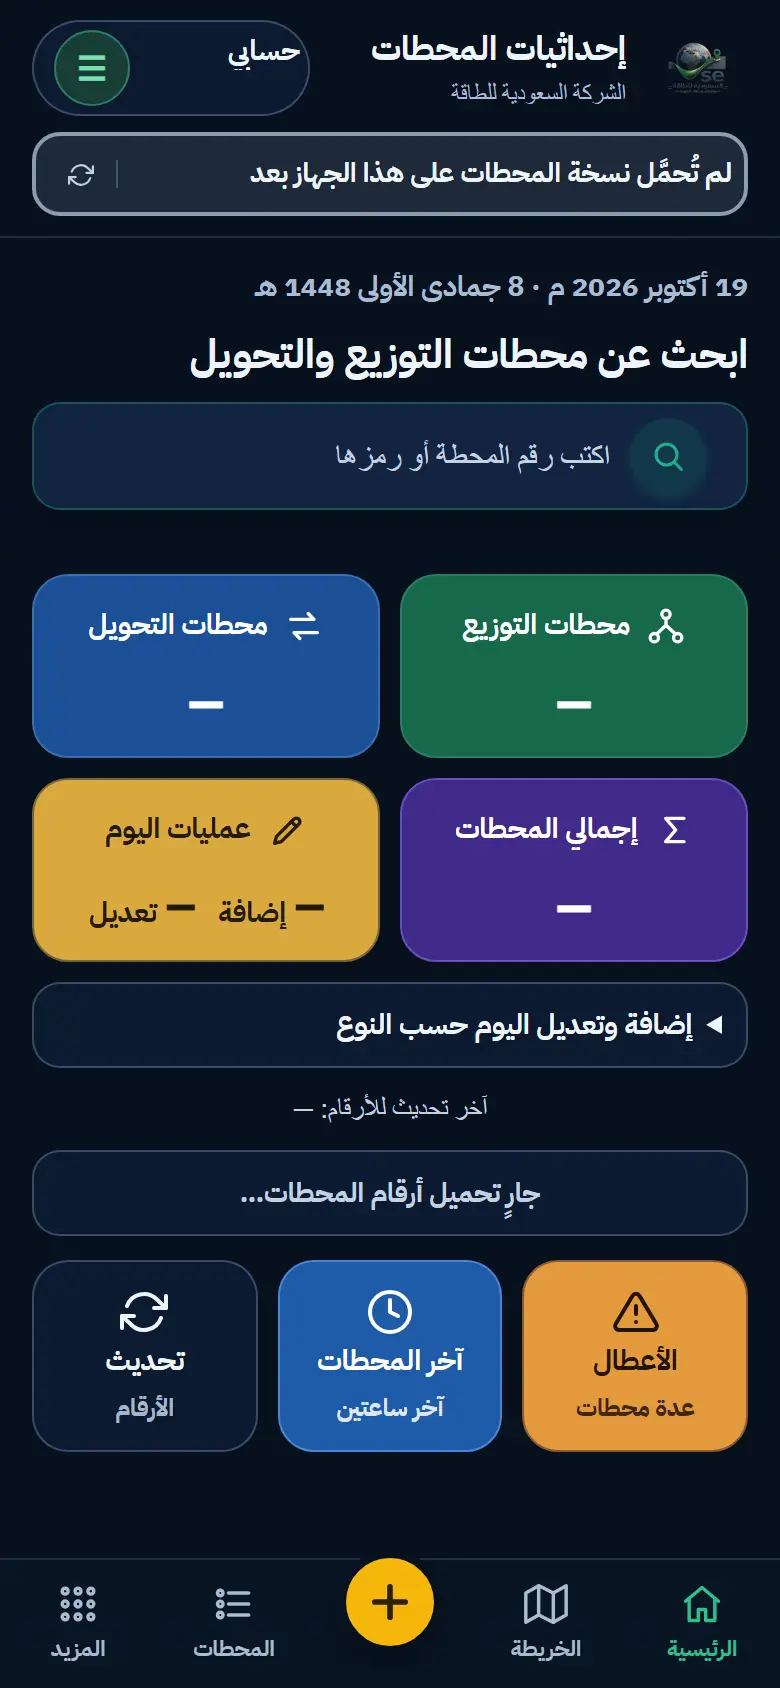
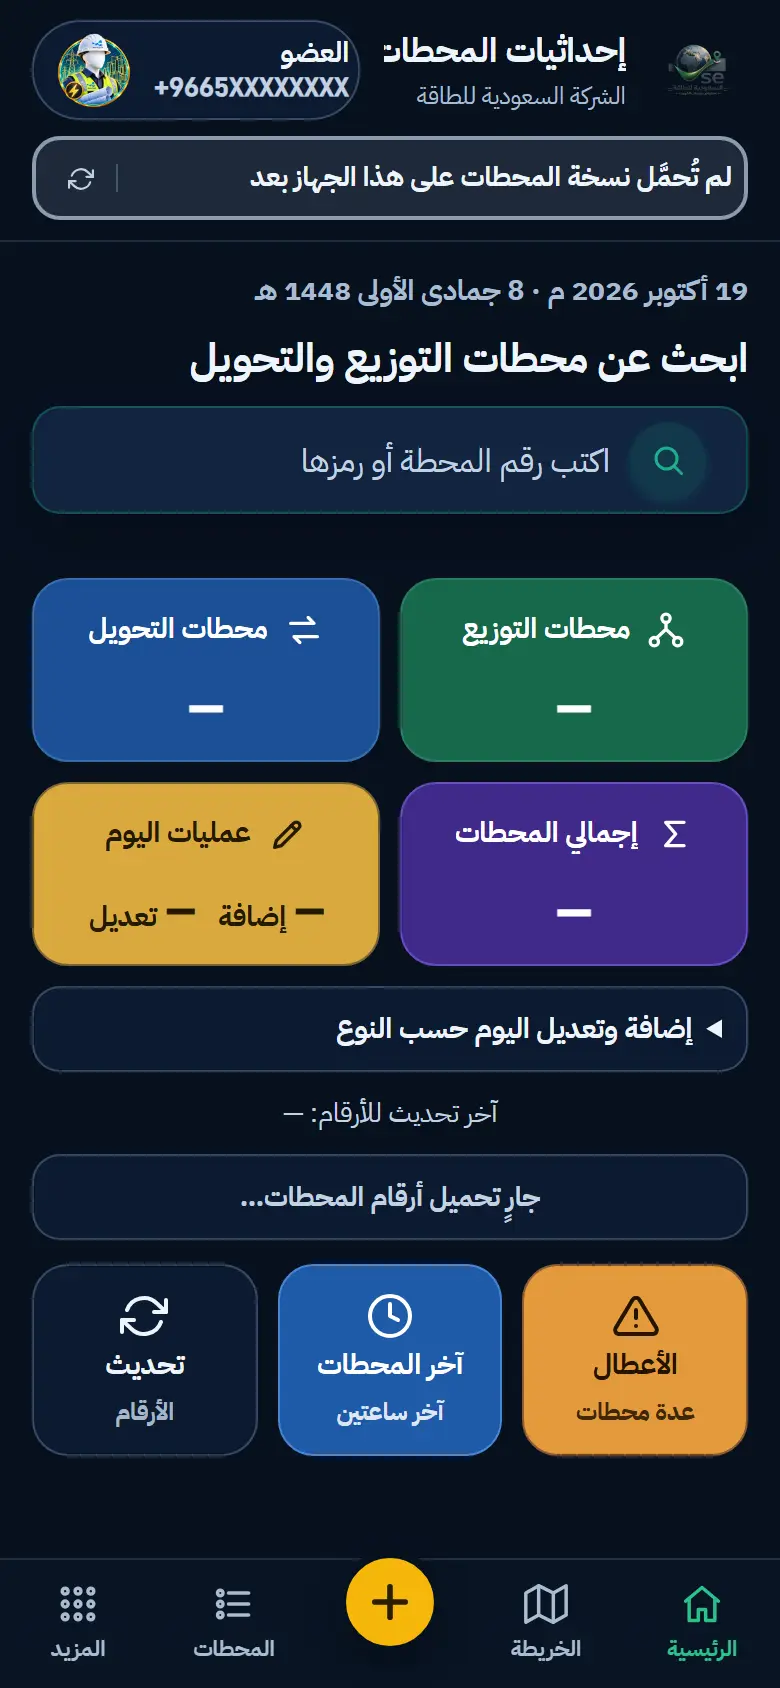
إعادة التصميم — صورة العضو في هوية الرأس و«المزيد»، والجولة بالهوية (صورة العضو، الاسم، +9665XXXXXXXX)

diff --git a/config/جولة_تعريفية.js b/config/جولة_تعريفية.js
@@ -19,19 +19,19 @@
       { img: 'assets/tour/01-bottom-nav.webp', rect: { x: 0, y: 779, w: 390, h: 65 },
         title: '🧭 الشريط السفلي: كل الموقع بضغطة',
         text: 'الرئيسية، والخريطة، والمحطات القريبة، و«المزيد» في الشريط السفلي، وزر ＋ الأصفر في الوسط لإضافة محطة.\nيبقى الشريط ثابتًا في كل الشاشات، ويختفي أثناء الملاحة لتملأ الخريطة الشاشة.' },
-      { img: 'assets/tour/02-state-ready.webp', rect: { x: 0, y: 66, w: 390, h: 52 },
+      { img: 'assets/tour/02-state-ready.webp', rect: { x: 0, y: 68, w: 390, h: 52 },
         title: '🟢 أخضر: نسخة المحطات مكتملة',
         text: 'الشريط العلوي يتلوّن حسب حالة نسخة المحطات المحفوظة في جهازك.\nالأخضر يعني أن النسخة مكتملة ومطابقة للخادم: البحث فوري من جهازك، ويعمل حتى بدون إنترنت.' },
-      { img: 'assets/tour/03-state-none.webp', rect: { x: 0, y: 66, w: 390, h: 52 },
+      { img: 'assets/tour/03-state-none.webp', rect: { x: 0, y: 68, w: 390, h: 52 },
         title: '⚪ رمادي: لم تُحمَّل النسخة بعد',
         text: 'أول دخول على جهاز جديد (أو بعد مسح البيانات المؤقتة): تُحمَّل كل المحطات مرة واحدة، والشريط يعرض التقدّم.\nحتى يكتمل التحميل يذهب البحث إلى الخادم، فيأخذ ثانية أو أكثر.' },
-      { img: 'assets/tour/04-state-partial.webp', rect: { x: 0, y: 66, w: 390, h: 63 },
+      { img: 'assets/tour/04-state-partial.webp', rect: { x: 0, y: 68, w: 390, h: 63 },
         title: '🟡 أصفر: التحميل توقف قبل أن يكتمل',
         text: 'إذا انقطع التحميل في منتصفه يتحول الشريط إلى الأصفر، ويذكر أين توقف، ويصير زر التحميل علامة ⚠.\nاضغط ⚠ لإكمال التحميل من مكانه — الجزء المحمّل لا يضيع.' },
-      { img: 'assets/tour/05-state-pending.webp', rect: { x: 0, y: 66, w: 390, h: 63 },
+      { img: 'assets/tour/05-state-pending.webp', rect: { x: 0, y: 68, w: 390, h: 63 },
         title: '🟠 برتقالي متقطع: توجد نسخة جديدة',
         text: 'أضاف زميل محطة أو عدّلها، ولم تصل التغييرات إلى جهازك بعد.\nيظهر عدّاد تنازلي للتحديث التلقائي، ويختفي بعد التحديث. وإن احتجت التغييرات الآن اضغط ⟳ للتسريع.' },
-      { img: 'assets/tour/06-state-offline.webp', rect: { x: 0, y: 66, w: 390, h: 52 },
+      { img: 'assets/tour/06-state-offline.webp', rect: { x: 0, y: 68, w: 390, h: 52 },
         title: '🔴 أحمر: لا يوجد اتصال بالإنترنت',
         text: 'إذا انقطع الإنترنت يتحول الشريط إلى الأحمر ويذكر آخر وقت حُدّثت فيه نسختك — والبحث والخريطة والملاحة تعمل منها.\nوإن لم تكن على الجهاز نسخة يقول ذلك صراحة: «لا توجد نسخة ولا يوجد إنترنت».' },
       { img: 'assets/tour/07-search-server.webp', rect: { x: 27, y: 728, w: 336, h: 28 },
@@ -43,19 +43,19 @@
       { img: 'assets/tour/09-station-sheet.webp', rect: { x: 12, y: 526, w: 366, h: 243 }, point: { x: 27, y: 628, w: 62, h: 67 },
         title: '📍 لوحة المحطة تحت الخريطة',
         text: 'الخريطة تأخذ الشاشة، وتحتها لوحة المحطة: الرقم والنوع والمغذي والمنطقة، وأزرار المسار وقوقل ماب والمشاركة والتعديل.\nوبطاقة «محطة بالمغذي» تعرض عدد محطات المغذي، وتُظهرها على الخريطة بالضغط عليها.' },
-      { img: 'assets/tour/10-details.webp', rect: { x: 16, y: 277, w: 358, h: 52 },
+      { img: 'assets/tour/10-details.webp', rect: { x: 16, y: 279, w: 358, h: 52 },
         title: '📋 تفاصيل المحطة',
         text: 'زر «التفاصيل» في لوحة المحطة يفتح ثلاثة تبويبات: المعلومات (ومعها نسخ الإحداثيات)، والموقع، والمحطات القريبة منها.\nوزر الرجوع يعيدك إلى الخريطة على المحطة نفسها.' },
-      { img: 'assets/tour/11-nearby.webp', rect: { x: 16, y: 166, w: 358, h: 559 },
+      { img: 'assets/tour/11-nearby.webp', rect: { x: 16, y: 168, w: 358, h: 557 },
         title: '📡 المحطات القريبة من موقعك',
         text: 'من «المحطات» في الشريط السفلي اضغط «تحديد موقعي»: تظهر المحطات حولك، الأقرب أولًا، مع المسافة.\nو«التصفية» تختار النوع والحي ونطاق البحث بالكيلومتر.' },
       { img: 'assets/tour/12-outages-input.webp', rect: { x: 16, y: 455, w: 358, h: 285 }, point: { x: 261, y: 455, w: 113, h: 96 },
         title: '⚡ بحث الأعطال: أرقام عدة محطات',
         text: 'في الرئيسية اضغط بطاقة «الأعطال»، فتظهر تحتها خانة الأرقام.\nاكتب أرقام المحطات التي فيها العطل (حتى 15 محطة) وافصل بينها بمسافة أو فاصلة، ثم اضغط بحث.' },
-      { img: 'assets/tour/13-outages-map.webp', rect: { x: 29, y: 260, w: 178, h: 33 },
+      { img: 'assets/tour/13-outages-map.webp', rect: { x: 29, y: 262, w: 178, h: 33 },
         title: '🗺 نتيجة بحث الأعطال على الخريطة',
         text: 'تظهر المحطات بالأحرف A ثم B ثم C بترتيب كتابتك، مع خط يربطها.\nوزر «الانتقال بالترتيب على قوقل ماب» يفتح مسارًا جاهزًا يمر بها كلها.' },
-      { img: 'assets/tour/14-ruler.webp', rect: { x: 12, y: 244, w: 366, h: 95 },
+      { img: 'assets/tour/14-ruler.webp', rect: { x: 12, y: 246, w: 366, h: 95 },
         title: '📐 قياس المسافة على الخريطة',
         text: 'من شريط أدوات الخريطة اضغط «⋯» ثم «📐 قياس المسافة».\nثم اضغط على نقطتين أو أكثر في الخريطة، فيظهر طول كل جزء والمسافة الإجمالية.' },
       { img: 'assets/tour/15-nav-online.webp', rect: { x: 0, y: 708, w: 390, h: 136 },
@@ -64,13 +64,13 @@
       { img: 'assets/tour/16-nav-offline.webp', rect: { x: 0, y: 650, w: 390, h: 194 },
         title: '📍 الملاحة بدون إنترنت',
         text: 'إذا انقطع الإنترنت تتحول الملاحة إلى توجيه مباشر: سهم نحو المحطة، والمسافة المباشرة، وحالة اتجاهك.\nوحين يعود الإنترنت ترجع لمسار الطرق تلقائيًا.' },
-      { img: 'assets/tour/17-more-offline-map.webp', rect: { x: 17, y: 408, w: 356, h: 56 },
+      { img: 'assets/tour/17-more-offline-map.webp', rect: { x: 17, y: 416, w: 356, h: 56 },
         title: '🗺 «المزيد» وخريطة جدة بدون إنترنت',
         text: 'في «المزيد»: حسابي، والورديات، والبيانات المؤقتة، والوضع الداكن، والخروج.\nومنها «خريطة جدة بدون إنترنت»: حمّلها مرة واحدة، فتعمل الخريطة والملاحة حتى في الأماكن بلا تغطية.' },
       { img: 'assets/tour/18-shifts.webp', rect: { x: 12, y: 230, w: 366, h: 230 },
         title: '📅 تقويم دوام الورديات 4×4',
         text: 'من «المزيد» ← «تقويم دوام الورديات»: دوام اليوم لكل وردية (صباحي / مسائي / راحة) محسوب تلقائيًا.\nوتحته تقويم الشهر كاملًا بالتاريخ الميلادي والهجري.' },
-      { img: 'assets/tour/19-dashboard.webp', rect: { x: 16, y: 287, w: 358, h: 194 },
+      { img: 'assets/tour/19-dashboard.webp', rect: { x: 16, y: 289, w: 358, h: 194 },
         title: '📊 أرقام المحطات',
         text: 'في الرئيسية: محطات التوزيع، ومحطات التحويل، والإجمالي، وعمليات اليوم — و«إضافة وتعديل اليوم حسب النوع» عند الضغط.\nيمكنك إعادة هذه الجولة في أي وقت من «المزيد» ← «الجولة التعريفية».' }
     ]

diff --git a/components/app-header.js b/components/app-header.js
@@ -90,7 +90,7 @@
        الضغط يفتح «المزيد» — The member identity instead of the menu: avatar initial, name, local phone; a tap opens «More» */
     function identity_() {
       return '<button type="button" class="hdr-id" data-act="identity" aria-label="حسابي والمزيد"><span class="hdr-id-text"><span class="hdr-id-name" data-role="name"></span>' +
-        '<bdi class="hdr-id-phone" data-role="phone" dir="ltr"></bdi></span><span class="avatar-initial hdr-id-av" data-role="initial" aria-hidden="true"></span></button>';
+        '<bdi class="hdr-id-phone" data-role="phone" dir="ltr"></bdi></span><img class="hdr-id-av" src="assets/member-avatar.webp" alt="" aria-hidden="true"></button>';
     }
     /* «حفظ الموقع كتطبيق» تحت «الصفحة الرئيسية» — يختفي إن كان يعمل كتطبيق مثبت (اعتماد محمد 9 أكتوبر)
        «Save the site as an app» under «home» — hidden when running as an installed app */
@@ -135,7 +135,10 @@
       if (loggedIn) {
         const first = (SESSION.getName() || '').trim().split(/\s+/)[0] || 'القائمة';
         row.querySelector('[data-role="name"]').textContent = first;
-        row.querySelector('[data-role="initial"]').textContent = first === 'القائمة' ? '☰' : Array.from(first)[0].toUpperCase();
+        // بلا اسم: أيقونة شخص لا ☰ (لا تشبه قائمة منسدلة — ملاحظة محمد) — no name: a person icon, not ☰ (no dropdown look)
+        const initial = row.querySelector('[data-role="initial"]'); // القائمة القديمة فقط (الصفحات الأخرى) / the old menu only (other pages)
+        if (!initial) { /* الهوية بصورة العضو / the identity uses the member picture */ }
+        else if (first === 'القائمة') initial.innerHTML = '<svg width="20" height="20" viewBox="0 0 24 24" fill="none" stroke="currentColor" stroke-width="2" stroke-linecap="round" stroke-linejoin="round" aria-hidden="true"><path d="M20 21v-2a4 4 0 0 0-4-4H8a4 4 0 0 0-4 4v2"/><circle cx="12" cy="7" r="4"/></svg>'; else initial.textContent = Array.from(first)[0].toUpperCase();
         if (o.identity) {
           if (first === 'القائمة') row.querySelector('[data-role="name"]').textContent = 'حسابي';
           const ph = String(SESSION.getPhone() || '');

diff --git a/components/more-menu.js b/components/more-menu.js
@@ -55,7 +55,7 @@
       const g = global, P = g.SecPWA;
       const install = g.SecInstallSheet && P && P.installMode() !== 'installed';
       container.innerHTML =
-        '<div class="mm-head"><span class="mm-avatar" data-role="initial"></span><div class="mm-who"><span class="mm-name" data-role="name"></span>' +
+        '<div class="mm-head"><img class="mm-avatar" src="assets/member-avatar.webp" alt="" aria-hidden="true"><div class="mm-who"><span class="mm-name" data-role="name"></span>' +
           '<span class="mm-role"><bdi class="mm-phone" data-role="phone" dir="ltr"></bdi> · ' + (SESSION.isAdmin() ? 'مدير' : 'عضو') + '</span></div></div>' +
         group_('الحساب', link_('member.html', 'k-sub', 'user', 'حسابي') + link_('shifts.html', 'k-total', 'cal', 'تقويم دوام الورديات') +
           (SESSION.isAdmin() ? link_('admin.html', 'k-ops', 'shield', 'لوحة المدير') : '')) +
@@ -67,7 +67,6 @@
         '<button type="button" class="mm-logout" data-act="logout"><span class="mm-ic">' + ICON.out + '</span><span data-role="logout-label">' + LOGOUT + '</span></button>';
       const first = (SESSION.getName() || '').trim().split(/\s+/)[0] || '';
       container.querySelector('[data-role="name"]').textContent = first || 'حسابي';
-      container.querySelector('[data-role="initial"]').textContent = first ? Array.from(first)[0].toUpperCase() : '☰';
       const ph = String(SESSION.getPhone() || '');
       container.querySelector('[data-role="phone"]').textContent = /^\+966\d{9}$/.test(ph) ? '0' + ph.slice(4) : ph; // الصيغة المحلية / the local form
       syncTheme_();

diff --git a/styles/app-header.css b/styles/app-header.css
@@ -143,3 +143,5 @@
 .hdr-id-text{display:flex;flex-direction:column;align-items:flex-start;min-width:0;line-height:1.25;}
 .hdr-id-name{font-size:14px;font-weight:700;white-space:nowrap;overflow:hidden;text-overflow:ellipsis;max-width:100%;}
 .hdr-id-phone{font-family:'JetBrains Mono',monospace;font-size:12.5px;font-weight:600;color:var(--text-secondary);}
+/* صورة العضو العامة دائرية بلا خلفية — the generic member picture, round, no background */
+img.hdr-id-av{width:40px;height:40px;object-fit:contain;background:none;border:none;border-radius:50%;}

diff --git a/styles/more-menu.css b/styles/more-menu.css
@@ -64,3 +64,4 @@
 .storage-screen[data-sync="ready"] .sync-line,.storage-screen[data-sync="ready"] .storage-row{background:var(--st-green-bg);border:2px solid var(--st-green);}
 .storage-screen[data-sync="pending"] .sync-line,.storage-screen[data-sync="pending"] .storage-row{background:var(--st-orange-bg);border:2px dashed var(--st-orange);}
 .storage-screen[data-sync] .sync-line{color:var(--text-primary);}
+img.mm-avatar{width:54px;height:54px;object-fit:contain;background:none;border:none;}
